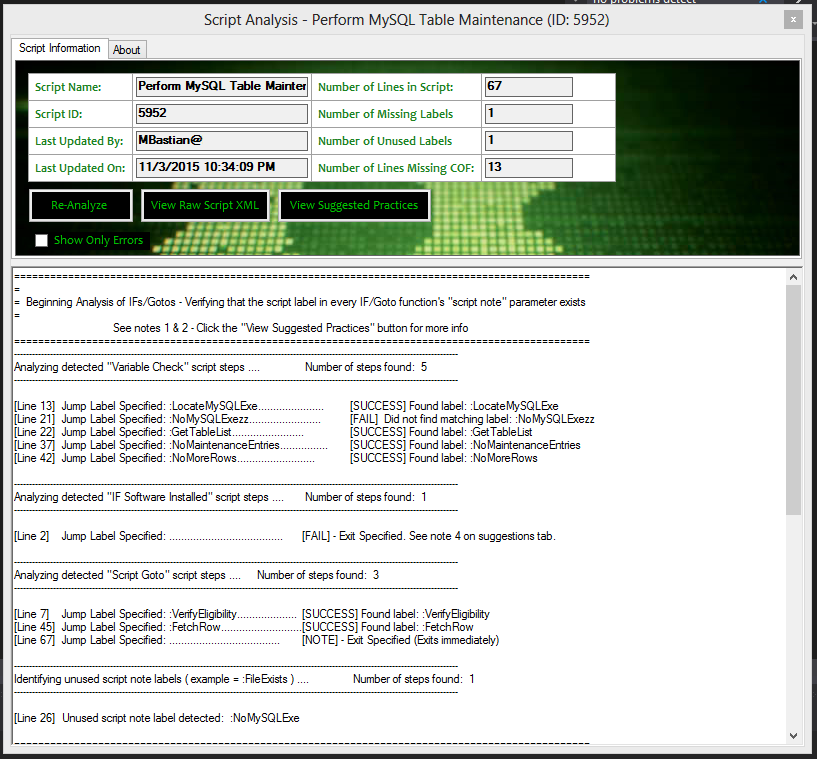
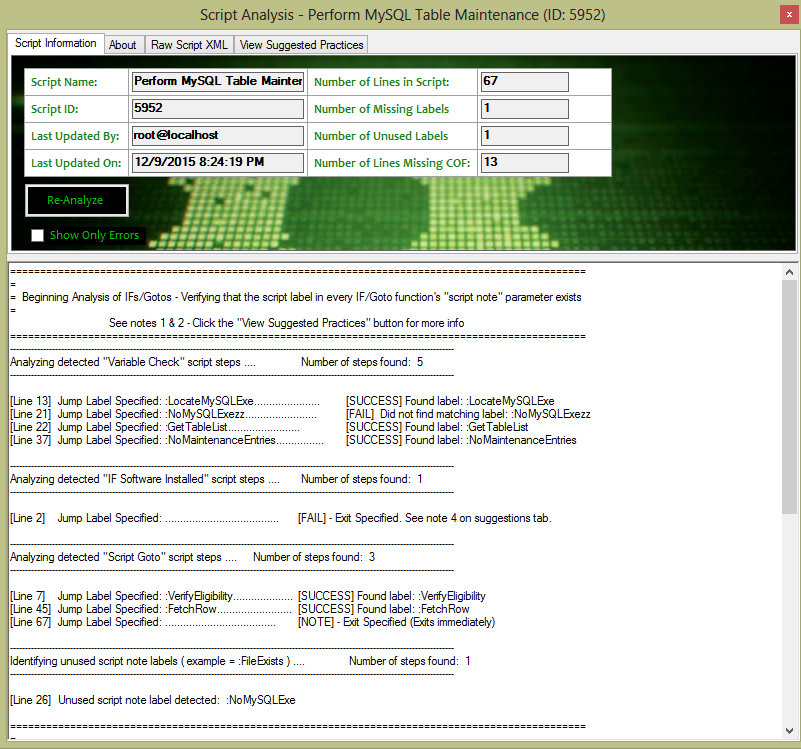
Modified analysis form to no longer have raw script / suggested practices popout windows. Switched them over to tabcontrol tabs.

diff --git a/AnalysisForm.Designer.cs b/AnalysisForm.Designer.cs
@@ -55,6 +55,10 @@
             this.btnBuildReport = new System.Windows.Forms.Button();
             this.tabPage2 = new System.Windows.Forms.TabPage();
             this.richTextBox1 = new System.Windows.Forms.RichTextBox();
+            this.TabRawXML = new System.Windows.Forms.TabPage();
+            this.TabSuggested = new System.Windows.Forms.TabPage();
+            this.richTextBoxSuggestions = new System.Windows.Forms.RichTextBox();
+            this.richTextBoxRawXML = new System.Windows.Forms.RichTextBox();
             this.tc_ScriptResults.SuspendLayout();
             this.tabPage1.SuspendLayout();
             this.tableLayoutPanel2.SuspendLayout();
@@ -78,6 +82,8 @@
             | System.Windows.Forms.AnchorStyles.Right)));
             this.tc_ScriptResults.Controls.Add(this.tabPage1);
             this.tc_ScriptResults.Controls.Add(this.tabPage2);
+            this.tc_ScriptResults.Controls.Add(this.TabRawXML);
+            this.tc_ScriptResults.Controls.Add(this.TabSuggested);
             this.tc_ScriptResults.Location = new System.Drawing.Point(0, 3);
             this.tc_ScriptResults.Name = "tc_ScriptResults";
             this.tc_ScriptResults.SelectedIndex = 0;
@@ -114,6 +120,7 @@
             this.button2.TabIndex = 16;
             this.button2.Text = "View Suggested Practices";
             this.button2.UseVisualStyleBackColor = false;
+            this.button2.Visible = false;
             this.button2.Click += new System.EventHandler(this.button2_Click_1);
             // 
             // checkBox1
@@ -141,6 +148,7 @@
             this.button1.TabIndex = 14;
             this.button1.Text = "View Raw Script XML";
             this.button1.UseVisualStyleBackColor = false;
+            this.button1.Visible = false;
             this.button1.Click += new System.EventHandler(this.button1_Click);
             // 
             // tableLayoutPanel2
@@ -407,22 +415,68 @@
             // 
             // richTextBox1
             // 
-            this.richTextBox1.BackColor = System.Drawing.Color.Black;
+            this.richTextBox1.BackColor = System.Drawing.Color.FromArgb(((int)(((byte)(32)))), ((int)(((byte)(33)))), ((int)(((byte)(27)))));
             this.richTextBox1.BorderStyle = System.Windows.Forms.BorderStyle.None;
             this.richTextBox1.ForeColor = System.Drawing.Color.FromArgb(((int)(((byte)(0)))), ((int)(((byte)(192)))), ((int)(((byte)(0)))));
             this.richTextBox1.ImeMode = System.Windows.Forms.ImeMode.Disable;
-            this.richTextBox1.Location = new System.Drawing.Point(9, 9);
-            this.richTextBox1.Margin = new System.Windows.Forms.Padding(6, 13, 6, 6);
+            this.richTextBox1.Location = new System.Drawing.Point(1, 1);
+            this.richTextBox1.Margin = new System.Windows.Forms.Padding(20, 13, 6, 6);
             this.richTextBox1.Name = "richTextBox1";
-            this.richTextBox1.Size = new System.Drawing.Size(765, 178);
+            this.richTextBox1.Size = new System.Drawing.Size(785, 198);
             this.richTextBox1.TabIndex = 2;
             this.richTextBox1.Text = "";
+            // 
+            // TabRawXML
+            // 
+            this.TabRawXML.Location = new System.Drawing.Point(4, 22);
+            this.TabRawXML.Name = "TabRawXML";
+            this.TabRawXML.Size = new System.Drawing.Size(785, 196);
+            this.TabRawXML.TabIndex = 2;
+            this.TabRawXML.Text = "Raw Script XML";
+            this.TabRawXML.UseVisualStyleBackColor = true;
+            // 
+            // TabSuggested
+            // 
+            this.TabSuggested.Location = new System.Drawing.Point(4, 22);
+            this.TabSuggested.Name = "TabSuggested";
+            this.TabSuggested.Size = new System.Drawing.Size(785, 196);
+            this.TabSuggested.TabIndex = 3;
+            this.TabSuggested.Text = "View Suggested Practices";
+            this.TabSuggested.UseVisualStyleBackColor = true;
+            // 
+            // richTextBoxSuggestions
+            // 
+            this.richTextBoxSuggestions.BackColor = System.Drawing.Color.FromArgb(((int)(((byte)(32)))), ((int)(((byte)(33)))), ((int)(((byte)(27)))));
+            this.richTextBoxSuggestions.BorderStyle = System.Windows.Forms.BorderStyle.FixedSingle;
+            this.richTextBoxSuggestions.ForeColor = System.Drawing.Color.FromArgb(((int)(((byte)(0)))), ((int)(((byte)(192)))), ((int)(((byte)(0)))));
+            this.richTextBoxSuggestions.Location = new System.Drawing.Point(4, 25);
+            this.richTextBoxSuggestions.Name = "richTextBoxSuggestions";
+            this.richTextBoxSuggestions.ReadOnly = true;
+            this.richTextBoxSuggestions.Size = new System.Drawing.Size(789, 686);
+            this.richTextBoxSuggestions.TabIndex = 13;
+            this.richTextBoxSuggestions.Text = "";
+            this.richTextBoxSuggestions.Visible = false;
+            // 
+            // richTextBoxRawXML
+            // 
+            this.richTextBoxRawXML.BackColor = System.Drawing.Color.FromArgb(((int)(((byte)(32)))), ((int)(((byte)(33)))), ((int)(((byte)(27)))));
+            this.richTextBoxRawXML.BorderStyle = System.Windows.Forms.BorderStyle.FixedSingle;
+            this.richTextBoxRawXML.ForeColor = System.Drawing.Color.FromArgb(((int)(((byte)(0)))), ((int)(((byte)(192)))), ((int)(((byte)(0)))));
+            this.richTextBoxRawXML.Location = new System.Drawing.Point(4, 26);
+            this.richTextBoxRawXML.Name = "richTextBoxRawXML";
+            this.richTextBoxRawXML.ReadOnly = true;
+            this.richTextBoxRawXML.Size = new System.Drawing.Size(789, 685);
+            this.richTextBoxRawXML.TabIndex = 14;
+            this.richTextBoxRawXML.Text = "";
+            this.richTextBoxRawXML.Visible = false;
             // 
             // AnalysisForm
             // 
             this.AutoScaleDimensions = new System.Drawing.SizeF(6F, 13F);
             this.AutoScaleMode = System.Windows.Forms.AutoScaleMode.Font;
             this.ClientSize = new System.Drawing.Size(793, 711);
+            this.Controls.Add(this.richTextBoxRawXML);
+            this.Controls.Add(this.richTextBoxSuggestions);
             this.Controls.Add(this.tc_ScriptResults);
             this.Controls.Add(this.rTxtBoxResults);
             this.FormBorderStyle = System.Windows.Forms.FormBorderStyle.FixedToolWindow;
@@ -468,6 +522,10 @@
         private System.Windows.Forms.CheckBox checkBox1;
         private System.Windows.Forms.Button button2;
         private System.Windows.Forms.RichTextBox richTextBox1;
+        private System.Windows.Forms.TabPage TabRawXML;
+        private System.Windows.Forms.TabPage TabSuggested;
+        private System.Windows.Forms.RichTextBox richTextBoxSuggestions;
+        private System.Windows.Forms.RichTextBox richTextBoxRawXML;
 
     }
 }

diff --git a/AnalysisForm.cs b/AnalysisForm.cs
@@ -47,7 +47,12 @@ namespace ScriptAnalyzer.ToolBar
         {
 
             InitializeComponent();
+            tc_ScriptResults.SelectedIndexChanged += new EventHandler(Tabs_SelectedIndexChanged);
+            
             _Host = host;
+
+            richTextBoxSuggestions.ResetText();
+            viewSuggestions.PopulateSuggestionsBox(richTextBoxSuggestions);
 
             txtBoxMissingCof.Text = "0";
             _numberOfMissingLabels = 0;
@@ -57,6 +62,7 @@ namespace ScriptAnalyzer.ToolBar
             PerformQaOperations();
 
             richTextBox1.Rtf = @"{\rtf1\ansi \b
+\line
 I hope that this plugin makes LabTech scripting easier for you, and will reduce the time required to develop/test your LabTech scripts. \line\line
 
 Too many times have I seen my scripts and those of others fail due to typos in script note labels or labels that were pasted and needed to be renamed. 
@@ -1657,8 +1663,15 @@ Happy LabTech Scripting!\line\line
 
         private void button1_Click(object sender, EventArgs e)
         {
+            
+            // Need to change contents of text block to new text
             var frmRawScript = new viewRawScriptXML(_CurrentScriptXml);
             frmRawScript.Show();
+
+
+
+
+
         }
 
         public void UpdateCOFTextBox(string txt)
@@ -1779,6 +1792,32 @@ Happy LabTech Scripting!\line\line
             viewSuggestions vwSuggestions = new viewSuggestions();
             vwSuggestions.Show();
         }
+
+        private void Tabs_SelectedIndexChanged(object sender, EventArgs e)
+        {
+
+            switch ((sender as TabControl).SelectedIndex)
+            {
+                case 2:
+                    // show script XML
+                    richTextBoxRawXML.Text = _CurrentScriptXml;
+                    richTextBoxRawXML.Visible = true;
+                    break;
+                case 3:
+                    // show the suggestions
+                    richTextBoxSuggestions.Visible = true;
+                    richTextBoxRawXML.Visible = false;
+                    break;
+                default:
+                    richTextBoxSuggestions.Visible = false;
+                    richTextBoxRawXML.Visible = false;
+                    break;
+            }
+            
+
+        }
+
+
        }
 }
 

diff --git a/Form1.Designer.cs b/Form1.Designer.cs
@@ -58,7 +58,6 @@ namespace ScriptAnalyzer.ToolBar
             this.lblNumScripts.Size = new System.Drawing.Size(142, 13);
             this.lblNumScripts.TabIndex = 2;
             this.lblNumScripts.Text = "Number of Scripts in System:";
-            //this.lblNumScripts.Click += new System.EventHandler(this.label1_Click);
             // 
             // richTextBox1
             // 
@@ -75,21 +74,17 @@ namespace ScriptAnalyzer.ToolBar
             this.dataGridView1.AllowUserToAddRows = false;
             this.dataGridView1.AllowUserToDeleteRows = false;
             this.dataGridView1.AllowUserToOrderColumns = true;
-            this.dataGridView1.Anchor = ((System.Windows.Forms.AnchorStyles)((((System.Windows.Forms.AnchorStyles.Top | System.Windows.Forms.AnchorStyles.Bottom) 
-            | System.Windows.Forms.AnchorStyles.Left) 
-            | System.Windows.Forms.AnchorStyles.Right)));
             this.dataGridView1.ColumnHeadersBorderStyle = System.Windows.Forms.DataGridViewHeaderBorderStyle.Single;
             this.dataGridView1.ColumnHeadersHeightSizeMode = System.Windows.Forms.DataGridViewColumnHeadersHeightSizeMode.AutoSize;
-            this.dataGridView1.Location = new System.Drawing.Point(6, 3);
+            this.dataGridView1.Dock = System.Windows.Forms.DockStyle.Fill;
+            this.dataGridView1.Location = new System.Drawing.Point(0, 0);
             this.dataGridView1.MultiSelect = false;
             this.dataGridView1.Name = "dataGridView1";
             this.dataGridView1.ReadOnly = true;
             this.dataGridView1.SelectionMode = System.Windows.Forms.DataGridViewSelectionMode.FullRowSelect;
-            this.dataGridView1.Size = new System.Drawing.Size(1092, 658);
+            this.dataGridView1.Size = new System.Drawing.Size(1092, 611);
             this.dataGridView1.TabIndex = 6;
             this.dataGridView1.CellMouseDown += new System.Windows.Forms.DataGridViewCellMouseEventHandler(this.dataGridView1_MouseDown);
-           // this.dataGridView1.ColumnHeaderMouseClick += new System.Windows.Forms.DataGridViewCellMouseEventHandler(dataGridView1_ColumnHeaderMouseClick);
-
             // 
             // panel1
             // 

diff --git a/Properties/AssemblyInfo.cs b/Properties/AssemblyInfo.cs
@@ -37,8 +37,8 @@ using System.Runtime.InteropServices;
 // by using the '*' as shown below:
 // <Assembly: AssemblyVersion("1.0.*")> 
 
-[assembly: AssemblyVersion("1.3.0.0")]
-[assembly: AssemblyFileVersion("1.3.0.0")]
+[assembly: AssemblyVersion("1.3.2.0")]
+[assembly: AssemblyFileVersion("1.3.2.0")]
 
 
 [assembly: AssemblyConfiguration("")]

diff --git a/viewSuggestions.cs b/viewSuggestions.cs
@@ -17,7 +17,7 @@ namespace ScriptAnalyzer.ToolBar
             PopulateSuggestionsBox(richTextBoxSuggestions);
         }
 
-        public void PopulateSuggestionsBox(RichTextBox rtb)
+        public static void PopulateSuggestionsBox(RichTextBox rtb)
         {
 
             rtb.Rtf = @"{\rtf1\ansi 

diff --git a/PluginInfo.cs b/PluginInfo.cs
@@ -15,7 +15,7 @@ namespace ScriptAnalyzer.ToolBar
 		{
 			get
 			{
-				return "LabTech Script Analyzer";
+				return "Performs a static analysis of your LabTech scripts in order to identify problems before a script is ran against production agents.";
 			}
 		}
 
